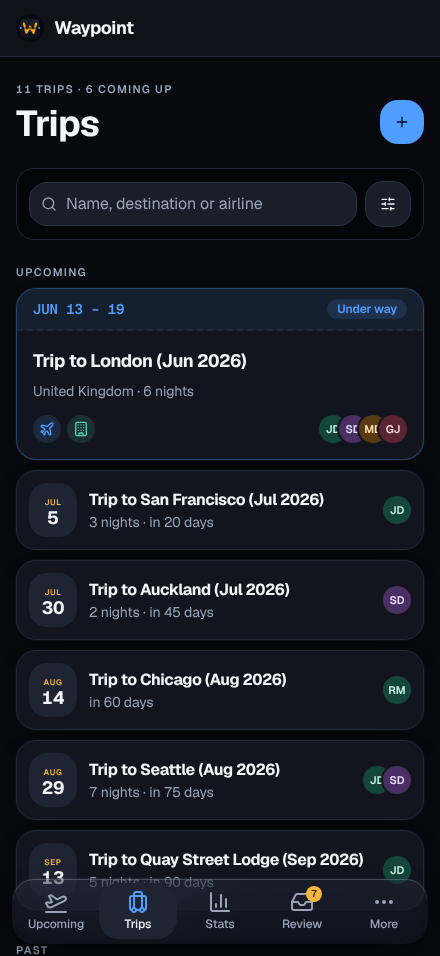
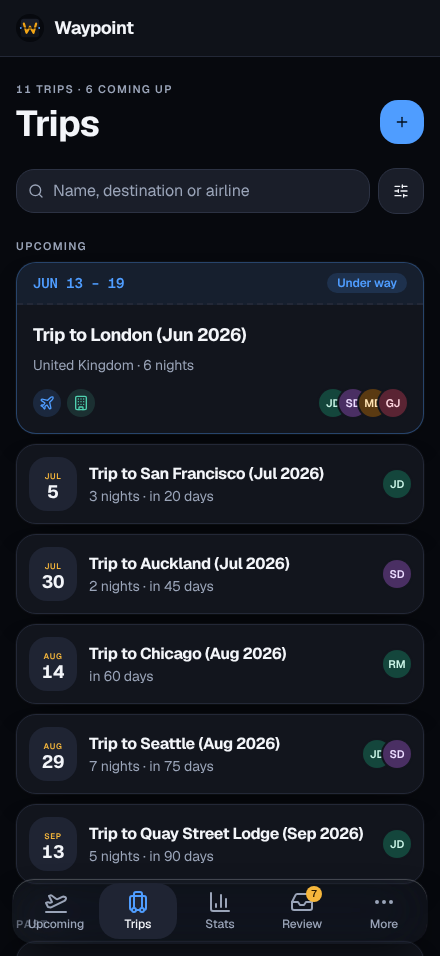
fix: make verify's images without partial raster, so an edge no longer comes out a level off between runs (#466)

Changed region(s): [[0.0295, 0.1517, 0.975, 0.9404], [0.0295, 0.9404, 0.0886, 1.0], [0.9455, 0.455, 0.975, 0.4854]]

diff --git a/docs/src/content/docs/contributing/development.md b/docs/src/content/docs/contributing/development.md
@@ -165,7 +165,7 @@ A pull request that changes the UI commits the images `make verify` changed, so 
 Running `make verify` twice on one tree gives identical files, so an image changes only when the UI or its data does:
 
 - The clock is frozen. The server and the demo seed run under `libfaketime` on a fixed date (`FROZEN_NOW` in `waypoint/verify.py`), and the browser’s clock is set to the same date.
-- Each image is taken from the top of the page with animations finished, after the page’s requests settle, with a fixed colour profile, one raster thread and no sub-pixel text.
+- Each image is taken from the top of the page with animations finished, after the page’s requests settle, with a fixed colour profile, one raster thread, no partial raster (which rarely drew a card’s edge a level off between runs) and no sub-pixel text.
 - It needs Linux (the dev container and CI; macOS doesn’t support `LD_PRELOAD`) and fails with the install line when `libfaketime` is missing.
 
 ```bash
